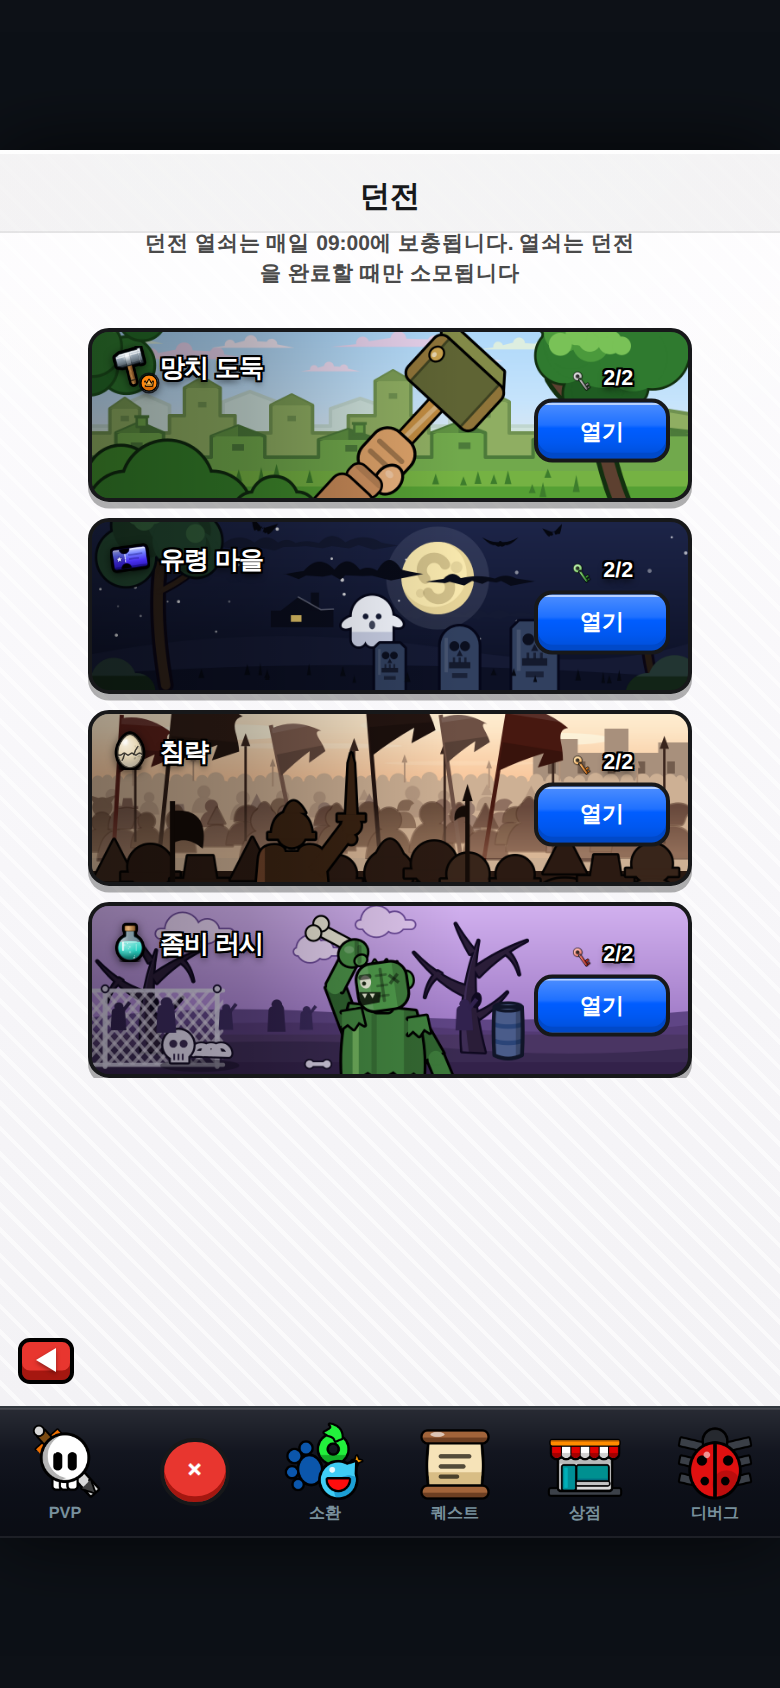
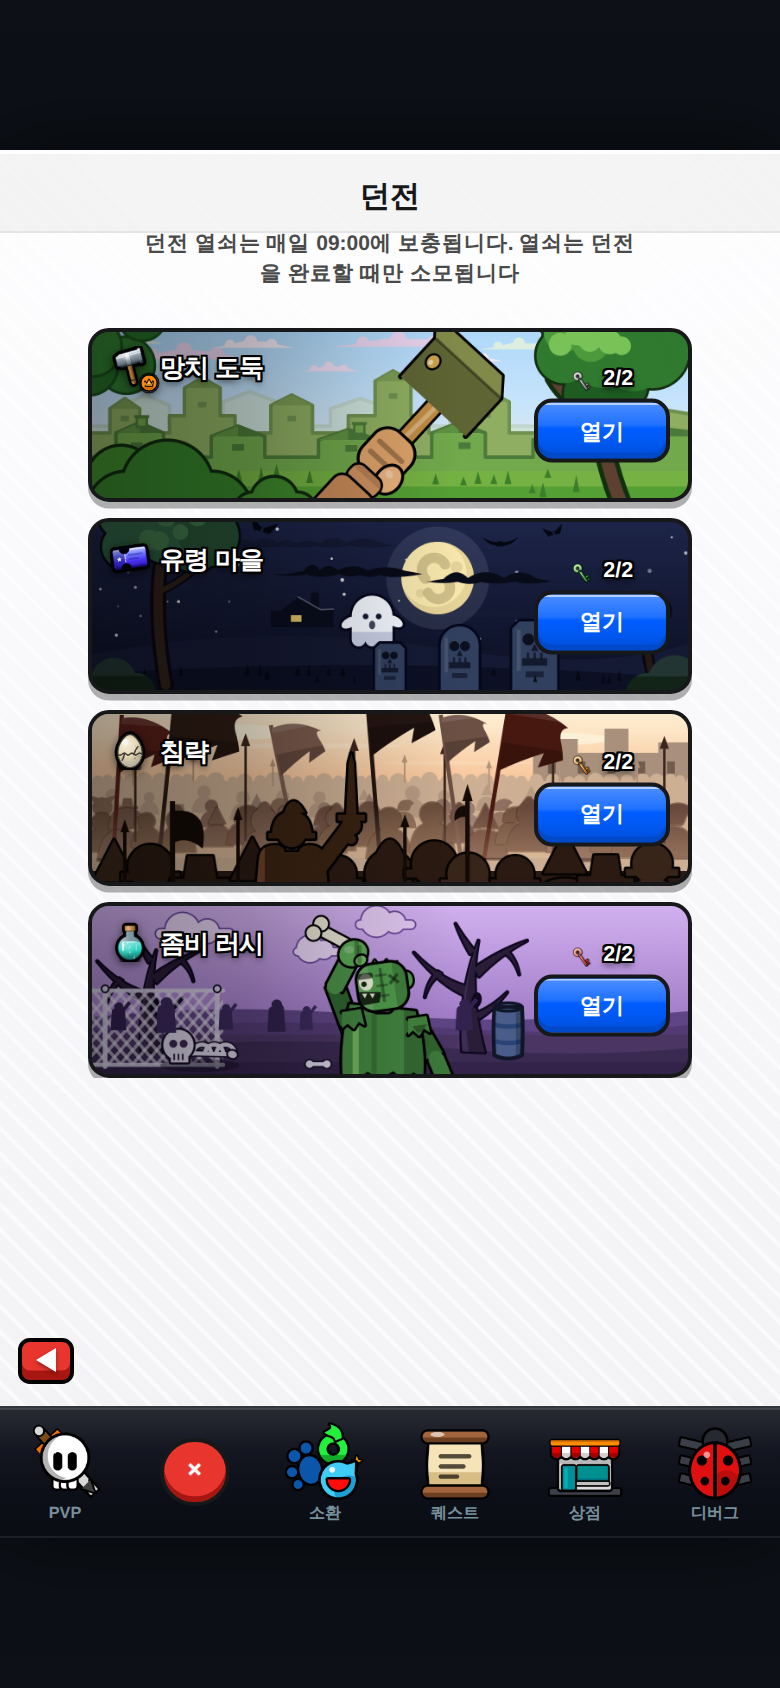
던전 행 R4 비평(76/85) 반영 — 교집합: 유령 구름 스파이크 제거(매끈 로브형, 박쥐와 어휘 분리)·침공 전경 창 3자루(무장 단서), 단독: 망치 머리 2면 상자 단순화·마을 원경/중경 명도 분리·중경 나무 0.30W 후퇴·풀포기 완화·유령 좌측 캐노피 명도 업·좀비 갈비 틈+골반 혹·주먹 명도 분리·눈 확대·오른 소매 절단면. 원본 실측 상충 지적(분홍 구름·달 S·올리브 머리색)은 불채택

diff --git a/web/js/icongen.js b/web/js/icongen.js
@@ -3882,26 +3882,24 @@ IconGen._genderSym = function (ctx, S, female) {
         /* R1 비평가 2인 공통 '망치 머리 은색 = 원본 아이덴티티 손실': 원본 실측은 어두운 올리브+
            금색 계열이다 — 어두운 올리브 2톤. 마을 초록(#71a94c·#4c7a3a)보다 두 단 어두운
            올리브라 실루엣이 붙지 않고, 머리가 걸리는 배경도 대부분 하늘이다. 금은 쐐기 못이 맡는다. */
-        /* R3 A·B 교집합 ⓐ '2면 하드에지로는 부족 — 헤드 실루엣 자체에 윗면이 필요': 정면 사각형
-           **안**에 명도 밴드를 긋는 걸로는 면이 안 갈린다 — 실루엣 밖으로 **윗면 평행사변형**을
-           붙여 사선 평행육면체를 만든다. 회전 프레임의 local 좌표에서, 회전(SWING≈-0.83rad) 후
-           화면 위쪽이 되는 오프셋은 local (+0.55,-0.45) 방향이다(스크린 up 을 역회전한 값).
-           차례: 윗면 먼저(키라인 포함) → 정면(키라인이 두 면의 공유 모서리에 하드 에지를 남긴다).
-           ⚠ 하이라이트 띠·물림 테·결 줄을 겹치면 '타탄 격자'(6차) — 면 분리는 색으로만. */
-        ink(ctx, S, poly(ctx, S, [[0.150, -0.235], [0.238, -0.307], [0.238, 0.163], [0.150, 0.235]]), '#828a48', 0.032);   // 윗면(빛면 — 한 단 밝은 올리브)
-        ink(ctx, S, rrect(ctx, S, -0.160, -0.255, 0.320, 0.510, 0.050), '#5f6434', 0.032);                                 // 정면
-        ctx.save();
-        ctx.beginPath(); rrect(ctx, S, -0.160, -0.255, 0.320, 0.510, 0.050)(); ctx.clip();
-        /* 금속 밴드 2줄(이번 런 A·B 공통 '궤짝/두부 블록' — 은색 전환은 채택 금지라 재질 단서를
-           밴드로 세운다): 양 타격면 끝의 다크골드 물림 테. 장축과 직교 방향 하나뿐이라 세로
-           광택선이 없는 지금은 타탄 함정(6차)과 무관하다. */
-        [-0.255, 0.203].forEach(y => {
-            on(ctx, rrect(ctx, S, -0.160, y, 0.320, 0.052, 0), '#8f7439');
-            on(ctx, rrect(ctx, S, -0.160, y + (y < 0 ? 0.052 : -0.014), 0.320, 0.014, 0), 'rgba(0,0,0,.35)');   // 밴드 안쪽 에지
-        });
-        ctx.restore();
-        ink(ctx, S, ell(ctx, S, 0.052, -0.190, 0.040, 0.034), '#c9a24e', 0.024);          // 쐐기 못
-        on(ctx, ell(ctx, S, 0.040, -0.198, 0.016, 0.013), 'rgba(255,255,255,.55)');       // 못 하이라이트
+        /* R3 A·B 교집합 ⓐ — '내부 밴드 2면으로는 부족, 실루엣 자체가 사선 평행육면체여야':
+           클립 안 밝은 띠(가짜 윗면)를 폐기하고 **윗면 평행사변형 + 끝면 평행사변형을 실루엣에
+           붙인다**. local +x = 자루 진행 방향(회전 후 우상향) = 윗면 쪽, 깊이 벡터 v=(0.100,-0.082)
+           (화면에서 위쪽으로 물러나는 사선). 정면(바탕 올리브)·윗면(밝은 올리브)·끝면(중간 톤)
+           세 채움의 하드 에지가 면 경계 — 그라디언트 밴드 금지 규약은 그대로다. */
+        /* 이번 런 A '3면 박스는 소실 방향이 어긋나 접혀 보인다 — 2면(정면+밝은 상판)으로 재작도':
+           끝면 평행사변형을 걷어내고 정면 사각 + 윗면 평행사변형만 남긴다(단순 사선 투영 —
+           캐주얼 카툰 상자의 표준 문법). 색은 원본 실측(어두운 올리브+금)이라 유지 — A 의
+           '짙은 강철로 재채색' 처방은 기록된 원본 아이덴티티 실측과 상충해 채택하지 않는다. */
+        const FR = [[-0.185, -0.255], [0.115, -0.255], [0.115, 0.255], [-0.185, 0.255]];  // 정면(A·B·C·D)
+        const VX = 0.100, VY = -0.082;                                                    // 깊이 벡터(윗면 사선)
+        const uni = poly(ctx, S, [[-0.185, 0.255], [0.115, 0.255],                        // 합집합(D→C→C'→B'→B→A)
+        [0.115 + VX, 0.255 + VY], [0.115 + VX, -0.255 + VY], [0.115, -0.255], [-0.185, -0.255]]);
+        ink(ctx, S, uni, '#5f6434', 0.032);                                               // 정면 바탕 + 근흑 키라인
+        on(ctx, poly(ctx, S, [FR[1], FR[2], [0.115 + VX, 0.255 + VY], [0.115 + VX, -0.255 + VY]]), '#828a49');   // 윗면(빛면)
+        on(ctx, bar(ctx, S, 0.115, -0.255, 0.115, 0.255, 0.016), 'rgba(0,0,0,.40)');      // 정면-윗면 하드 에지
+        ink(ctx, S, ell(ctx, S, 0.005, -0.175, 0.040, 0.034), '#c9a24e', 0.024);          // 쐐기 못(정면)
+        on(ctx, ell(ctx, S, -0.007, -0.183, 0.016, 0.013), 'rgba(255,255,255,.55)');      // 못 하이라이트
         ctx.restore();
     };
 
@@ -3920,21 +3918,24 @@ IconGen._genderSym = function (ctx, S, female) {
         /* 구름 스트릭 공용(R1 비평가 2인 공통 '동일 반원 스캘럽 = 염주/애벌레'): 균일 반원 연쇄를
            버리고 **양끝이 뾰족하게 갈라지는 바람결 스트릭**으로 — 윗변은 반경이 크게 다른 완만한
            혹 몇 개, 아랫변은 뾰족 찢김, 좌우 꼬리는 가늘게 뽑는다(원본의 그 실루엣). */
+        /* 이번 런 비평가 2인 교집합 '구름과 박쥐가 같은 뾰족 엣지 어휘를 공유해 번진 얼룩':
+           찢김 스파이크(아랫변 지그재그·뾰족 꼬리)를 걷어내고 **매끈한 로브형 밤구름**으로 —
+           윗변은 완만한 혹, 아랫변도 완만한 곡선, 꼬리는 둥글게 가늘어진다. 뾰족 엣지는
+           이제 박쥐 전용 어휘라 실루엣 단계에서 종이 갈린다. */
         const streak = (sx, sy, len, th, c) => {
             ctx.beginPath();
-            ctx.moveTo(sx - th * 3.0, sy + th * 0.50);                     // 뾰족한 왼 꼬리
-            ctx.quadraticCurveTo(sx - th * 0.8, sy + th * 0.05, sx, sy);
+            ctx.moveTo(sx - th * 2.4, sy + th * 0.45);                     // 둥근 왼 꼬리
+            ctx.quadraticCurveTo(sx - th * 0.9, sy + th * 0.08, sx, sy);
             let x = sx;
-            while (x < sx + len) {                                         // 윗변 — 반경 편차 큰 혹
-                const seg = H * (0.08 + R() * 0.14), r = th * (0.35 + R() * 1.25);
-                ctx.quadraticCurveTo(x + seg * 0.5, sy - r * 2, x + seg, sy - r * 0.15);
+            while (x < sx + len) {                                         // 윗변 — 완만한 로브
+                const seg = H * (0.09 + R() * 0.12), r = th * (0.55 + R() * 0.85);
+                ctx.quadraticCurveTo(x + seg * 0.5, sy - r * 1.6, x + seg, sy - r * 0.12);
                 x += seg;
             }
-            ctx.quadraticCurveTo(x + th * 1.2, sy + th * 0.10, x + th * 3.2, sy + th * 0.40);   // 뾰족한 오른 꼬리
-            while (x > sx) {                                               // 아랫변 — 뾰족 찢김
-                const seg = H * (0.07 + R() * 0.10);
-                ctx.lineTo(x - seg * 0.35, sy + th * (0.55 + R() * 0.85));
-                ctx.lineTo(x - seg, sy + th * (0.30 + R() * 0.45));
+            ctx.quadraticCurveTo(x + th * 1.0, sy + th * 0.08, x + th * 2.6, sy + th * 0.42);   // 둥근 오른 꼬리
+            while (x > sx) {                                               // 아랫변 — 완만한 로브(찢김 금지)
+                const seg = H * (0.10 + R() * 0.12);
+                ctx.quadraticCurveTo(x - seg * 0.5, sy + th * (0.85 + R() * 0.45), x - seg, sy + th * (0.40 + R() * 0.20));
                 x -= seg;
             }
             ctx.closePath(); ctx.fillStyle = c; ctx.fill();
@@ -4118,13 +4119,13 @@ IconGen._genderSym = function (ctx, S, female) {
                하한(26)은 밝아지는 쪽이라 안전하다. */
             const blobs = [];
             for (let i = 0; i < 9; i++)                                    // 잎 덩어리(자리 먼저 뽑는다 — 스트로크→채움 2패스용)
-                blobs.push([x + H * (-0.22 + R() * 0.50), H * (-0.08 + R() * 0.30), H * (0.12 + R() * 0.08), i % 2 ? '#1c3a26' : '#224630']);
+                blobs.push([x + H * (-0.22 + R() * 0.50), H * (-0.08 + R() * 0.30), H * (0.12 + R() * 0.08), i % 2 ? '#265034' : '#2d5c40']);   // 이번 런 B: 하늘과 값이 붙어 실루엣 소실 — 1.5스텝 밝게
             ctx.strokeStyle = '#060b12'; ctx.lineWidth = H * 0.028;        // 합집합 키라인(채움이 안쪽 획을 덮는다 — 덤불 화법)
             blobs.forEach(([lx, ly, r]) => { ctx.beginPath(); ctx.arc(lx, ly, r, 0, Math.PI * 2); ctx.stroke(); });
             blobs.forEach(([lx, ly, r, c]) => fill(ctx, c, () => ctx.arc(lx, ly, r, 0, Math.PI * 2)));
             for (let i = 0; i < 5; i++) {                                  // 달빛 림 혹
                 const lx = x + H * (-0.16 + R() * 0.40), ly = H * (-0.05 + R() * 0.20), r = H * (0.038 + R() * 0.028);
-                fill(ctx, '#33603c', () => ctx.arc(lx, ly, r, 0, Math.PI * 2));
+                fill(ctx, '#3f7248', () => ctx.arc(lx, ly, r, 0, Math.PI * 2));   // 달빛 림도 한 단 위로
             }
         })();
         /* 우측 가장자리 낮은 나무(잔여 결함 ⓒ — 좌측 큰 나무만 있어 좌우 비대칭): 우측 28%는
@@ -4415,6 +4416,14 @@ IconGen._genderSym = function (ctx, S, female) {
             pole(W * 0.63, H * 0.50, H * 1.0, H * 0.026);
             fill(ctx, c, () => { ctx.moveTo(W * 0.63 - H * 0.030, H * 0.52); ctx.lineTo(W * 0.63, H * 0.42); ctx.lineTo(W * 0.63 + H * 0.030, H * 0.52); ctx.closePath(); });
             fill(ctx, c, () => { ctx.moveTo(W * 0.63, H * 0.545); ctx.quadraticCurveTo(W * 0.63 - H * 0.085, H * 0.545, W * 0.63 - H * 0.075, H * 0.635); ctx.quadraticCurveTo(W * 0.63 - H * 0.035, H * 0.60, W * 0.63, H * 0.615); ctx.closePath(); });
+            /* 이번 런 A·B 교집합 '전경 열이 바위 무더기': 열 자체의 투구 부속만으로는 1x 에서
+               부족하다 — 전경 열 어깨 사이에서 솟는 **창 3자루**(자루+창끝)로 '무장 군중' 단서를
+               실루엣 위에 직접 세운다. 장수(0.335W+검 0.435W)·도끼(0.135W)·미늘창(0.63W)과
+               겹치지 않는 자리, 높이는 제각각. */
+            [[0.055, 0.70], [0.245, 0.63], [0.525, 0.67]].forEach(([px, ptop]) => {
+                pole(W * px, H * ptop, H * 1.0, H * 0.020);
+                fill(ctx, c, () => { ctx.moveTo(W * px - H * 0.026, H * ptop); ctx.lineTo(W * px, H * (ptop - 0.075)); ctx.lineTo(W * px + H * 0.026, H * ptop); ctx.closePath(); });
+            });
         })();
     };
 
@@ -4503,14 +4512,24 @@ IconGen._genderSym = function (ctx, S, female) {
             fill(ctx, 'rgba(15,10,28,.40)', () => ctx.ellipse(sx + r * 1.4, sy + r * 1.35, r * 2.6, r * 0.42, 0, 0, Math.PI * 2));   // 바닥 그림자 — '철망에 붙은 표지판'이 아니라 바닥에 놓인 소품(비평가 7차)
             /* 뼈 무더기 키라인(R2 공통 '전경 키라인 비일관'): 척추·갈비를 근흑 언더레이 위에 겹쳐
                그리고 두개골·턱도 스트로크→채움 순서로 키라인을 두른다. */
-            [[H * 0.052, '#150e26'], [H * 0.030, '#d9d2e6']].forEach(([lw, col]) => {
+            /* 이번 런 B '해골 옆 회색 덩어리 판독 불능': 갈비 아치가 굵은 키라인에 뭉개져 요철만
+               남았다 — 키라인을 가늘게, 아치 반경을 키우고 간격을 벌려 **늑골 사이 틈**이 1x 에서
+               보이게 한다. 척추 끝에 골반 혹을 달아 '유해'의 형태 언어를 명시. */
+            [[H * 0.040, '#150e26'], [H * 0.024, '#d9d2e6']].forEach(([lw, col]) => {
                 ctx.strokeStyle = col; ctx.lineWidth = lw; ctx.lineCap = 'round';
-                ctx.beginPath(); ctx.moveTo(sx + r * 1.0, sy + r * 0.55); ctx.lineTo(sx + r * 3.3, sy + r * 0.62); ctx.stroke();   // 척추
-                [1.5, 2.15, 2.8].forEach(k => {                                                   // 갈비 아치(위로 솟은 반원)
-                    ctx.beginPath(); ctx.arc(sx + r * k, sy + r * 0.58, r * 0.52, Math.PI, Math.PI * 2); ctx.stroke();
+                ctx.beginPath(); ctx.moveTo(sx + r * 1.0, sy + r * 0.55); ctx.lineTo(sx + r * 3.55, sy + r * 0.62); ctx.stroke();   // 척추
+                [1.55, 2.35, 3.10].forEach(k => {                                                 // 갈비 아치(간격을 벌려 틈이 보이게)
+                    ctx.beginPath(); ctx.arc(sx + r * k, sy + r * 0.58, r * 0.60, Math.PI, Math.PI * 2); ctx.stroke();
                 });
                 ctx.lineCap = 'butt';
             });
+            (() => {                                                                              // 골반 혹(척추 끝)
+                const px = sx + r * 3.55, py = sy + r * 0.62;
+                ctx.beginPath(); ctx.ellipse(px, py, r * 0.30, r * 0.24, 0.2, 0, Math.PI * 2);
+                ctx.strokeStyle = '#150e26'; ctx.lineWidth = H * 0.020; ctx.stroke();
+                ctx.beginPath(); ctx.ellipse(px, py, r * 0.30, r * 0.24, 0.2, 0, Math.PI * 2);
+                ctx.fillStyle = '#d9d2e6'; ctx.fill();
+            })();
             const skullP = () => { ctx.arc(sx, sy, r, 0, Math.PI * 2); };
             const jawP = () => { ctx.rect(sx - r * 0.5, sy + r * 0.55, r * 1.15, r * 0.60); };
             ctx.strokeStyle = '#150e26'; ctx.lineWidth = H * 0.024;
@@ -4654,6 +4673,7 @@ IconGen._genderSym = function (ctx, S, female) {
            이음을 몸통색 너덜 소매로 덮어 '옷 입은 몸'으로 잇는다. */
         ink(ctx, S, poly(ctx, S, [[1.446, 0.630], [1.556, 0.612], [1.578, 0.706], [1.544, 0.686], [1.516, 0.728], [1.480, 0.698], [1.446, 0.724]]), '#41823f', 0.028);   // 왼 어깨
         ink(ctx, S, poly(ctx, S, [[1.830, 0.668], [1.936, 0.652], [1.956, 0.748], [1.922, 0.726], [1.894, 0.768], [1.858, 0.736], [1.830, 0.762]]), '#41823f', 0.028);   // 오른 어깨
+        on(ctx, poly(ctx, S, [[1.856, 0.712], [1.938, 0.700], [1.918, 0.740], [1.884, 0.752]]), 'rgba(0,0,0,.32)');   // 소매 안 절단면 그늘(이번 런 B: 팔 소실이 의도임을 명시)
         /* 목(R2 A '머리가 풍선처럼 떠 있다'): 머리보다 먼저 그려 머리 밑에 깔리는 짧은 목 기둥 —
            머리 기울기와 같은 쪽으로 살짝 물려 어깨선과 잇는다. */
         ink(ctx, S, rrect(ctx, S, 1.622, 0.545, 0.118, 0.085, 0.030), '#3a763a', 0.026);
@@ -4695,9 +4715,9 @@ IconGen._genderSym = function (ctx, S, female) {
            소멸'): 왼(뼈 든 팔 쪽) 실루엣 가장자리에 처진 눈꺼풀의 눈 하나 + 벌어진 턱 + 이빨 1개.
            ⚠ 6차 금지는 **정면 점눈 둘 + 이빨**('귀여운 로봇') — 한쪽 눈 측면 프로필은 별개 처방이고
            이번 비평가 2인이 공통으로 요구했다. 되물리면 이 메모째 판단 근거를 남길 것. */
-        on(ctx, ell(ctx, S, 1.588, 0.442, 0.032, 0.038), '#e8ecd8');                              // 눈 흰자
-        on(ctx, rrect(ctx, S, 1.550, 0.398, 0.076, 0.030, 0.014), 'rgba(0,0,0,.55)');             // 처진 눈꺼풀
-        on(ctx, circle(ctx, S, 1.578, 0.450, 0.012), '#1c2a16');                                  // 동공(왼쪽을 본다)
+        on(ctx, ell(ctx, S, 1.590, 0.444, 0.041, 0.048), '#e8ecd8');                              // 눈 흰자(이번 런 A: 1x 에서 표정 소실 — 25% 확대)
+        on(ctx, rrect(ctx, S, 1.544, 0.392, 0.092, 0.034, 0.016), 'rgba(0,0,0,.55)');             // 처진 눈꺼풀
+        on(ctx, circle(ctx, S, 1.577, 0.454, 0.016), '#1c2a16');                                  // 동공(왼쪽을 본다)
         on(ctx, poly(ctx, S, [[1.536, 0.494], [1.668, 0.512], [1.652, 0.570], [1.536, 0.576]]), 'rgba(10,16,8,.85)');   // 벌어진 턱(실루엣 가장자리에 물림 — 작으면 수염 얼룩으로 읽힌다)
         [[1.558, 0.506], [1.602, 0.512]].forEach(([tx2, ty2]) =>
             on(ctx, poly(ctx, S, [[tx2, ty2], [tx2 + 0.030, ty2 + 0.004], [tx2 + 0.013, ty2 + 0.030]]), '#dfe3cc'));    // 윗니 2개
@@ -4710,18 +4730,14 @@ IconGen._genderSym = function (ctx, S, female) {
         [[1.326, 0.118], [1.282, 0.172]].forEach(p => ink(ctx, S, circle(ctx, S, p[0], p[1], 0.040), '#e6e2d2', 0.022));   // 먼 끝 혹(대각 쌍)
         /* 주먹 = 한 덩어리(R2 A '초록 구슬 다발' — R1 처방이던 마디 혹 3개를 되물림): 뼈와 직교하는
            얕은 골 2줄만 눌러 '감아쥔 손'을 말한다(망치 행 주먹과 같은 해법). */
-        /* R3 A3·B3 공통 '팔 끝에 뼈가 붙은 듯 — 쥔 게 아니다': 뼈 자루가 주먹을 **관통**하게
-           그리고(자루를 주먹 아래로 연장 + 주먹 뒤 밑동 혹 노출) 주먹을 키운다 — '감아쥔 손'이
-           겹침 순서로 성립한다. */
-        ink(ctx, S, ell(ctx, S, 1.512, 0.290, 0.082, 0.072, -0.48), '#4a8f47', 0.028);            // 주먹(뼈 하단을 감아쥔 타원 한 덩어리, 확대)
-        /* (밑동 혹은 안 쓴다 — 머리 타래 바로 위라 '부유 구슬'로 읽혔다, 이번 런 캡처 확인.
-           '쥔 손'은 망치 행 검증 해법대로 엄지+골이 말한다.) */
-        ink(ctx, S, ell(ctx, S, 1.556, 0.330, 0.032, 0.026, -0.48), '#5ba455', 0.026);            // 엄지(감아쥔 쪽, 한 단 밝게)
+        /* R3 병렬·R4 합류 '주먹이 안 보인다/쥔 게 아니다': 주먹을 키우고(0.082) 아래팔보다
+           **한 단 밝은 초록**으로 갈라(1x 명도 분리) 엄지+골 2줄로 '감아쥔 손'을 세운다. */
+        ink(ctx, S, ell(ctx, S, 1.512, 0.290, 0.082, 0.072, -0.48), '#5aa855', 0.028);            // 주먹(뼈 하단을 감아쥔 타원 한 덩어리, 확대·밝게)
+        ink(ctx, S, ell(ctx, S, 1.556, 0.330, 0.032, 0.026, -0.48), '#6db863', 0.026);            // 엄지(감아쥔 쪽, 한 단 더 밝게)
         ctx.save();
         ctx.beginPath(); ell(ctx, S, 1.512, 0.290, 0.082, 0.072, -0.48)(); ctx.clip();
         [[1.532, 0.252], [1.548, 0.296]].forEach(([gx, gy]) =>
-            on(ctx, rrect(ctx, S, gx - 0.012, gy - 0.056, 0.024, 0.112, 0.012), 'rgba(0,0,0,.26)'));   // 손가락 골 2줄(뼈 자루와 직교 방향)
-        ctx.restore();
+            on(ctx, rrect(ctx, S, gx - 0.012, gy - 0.056, 0.024, 0.112, 0.012), 'rgba(0,0,0,.26)'));   // 손가락 골 2줄(뼈 자루와 직교 방향)        ctx.restore();
         on(ctx, ell(ctx, S, 1.488, 0.268, 0.028, 0.022), 'rgba(255,255,255,.20)');                // 주먹 광
     };
 })(IconGen);
